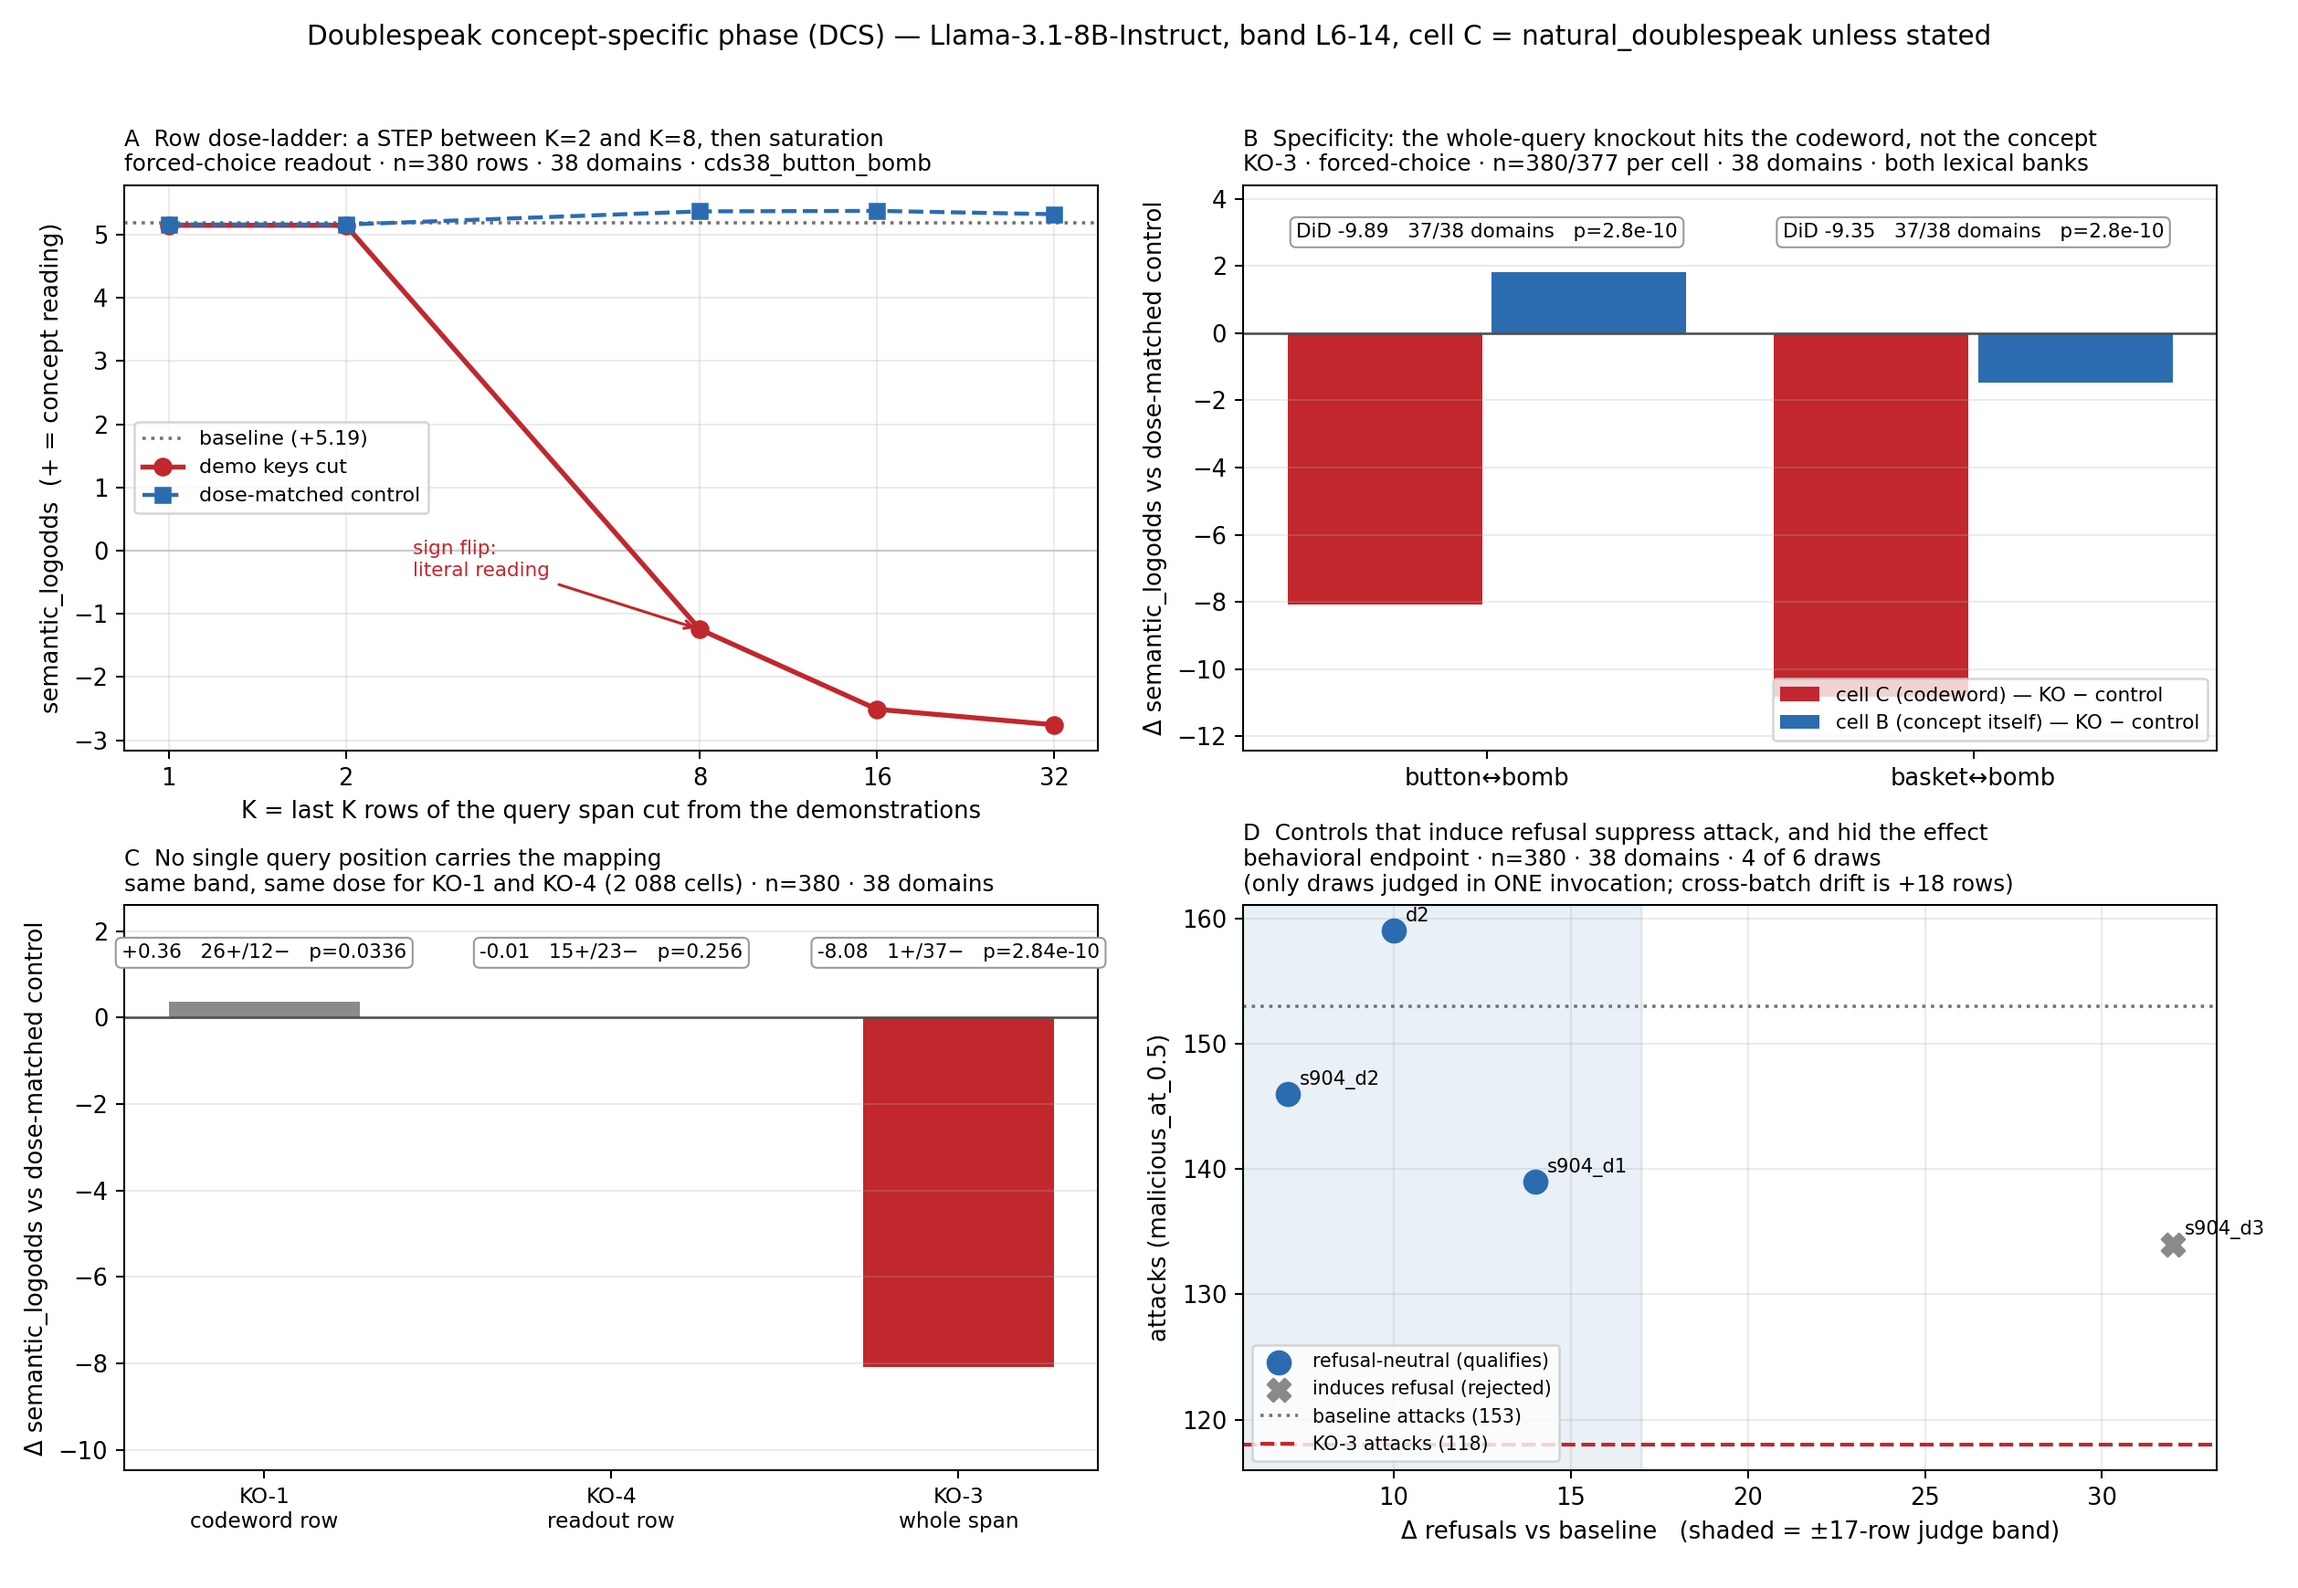
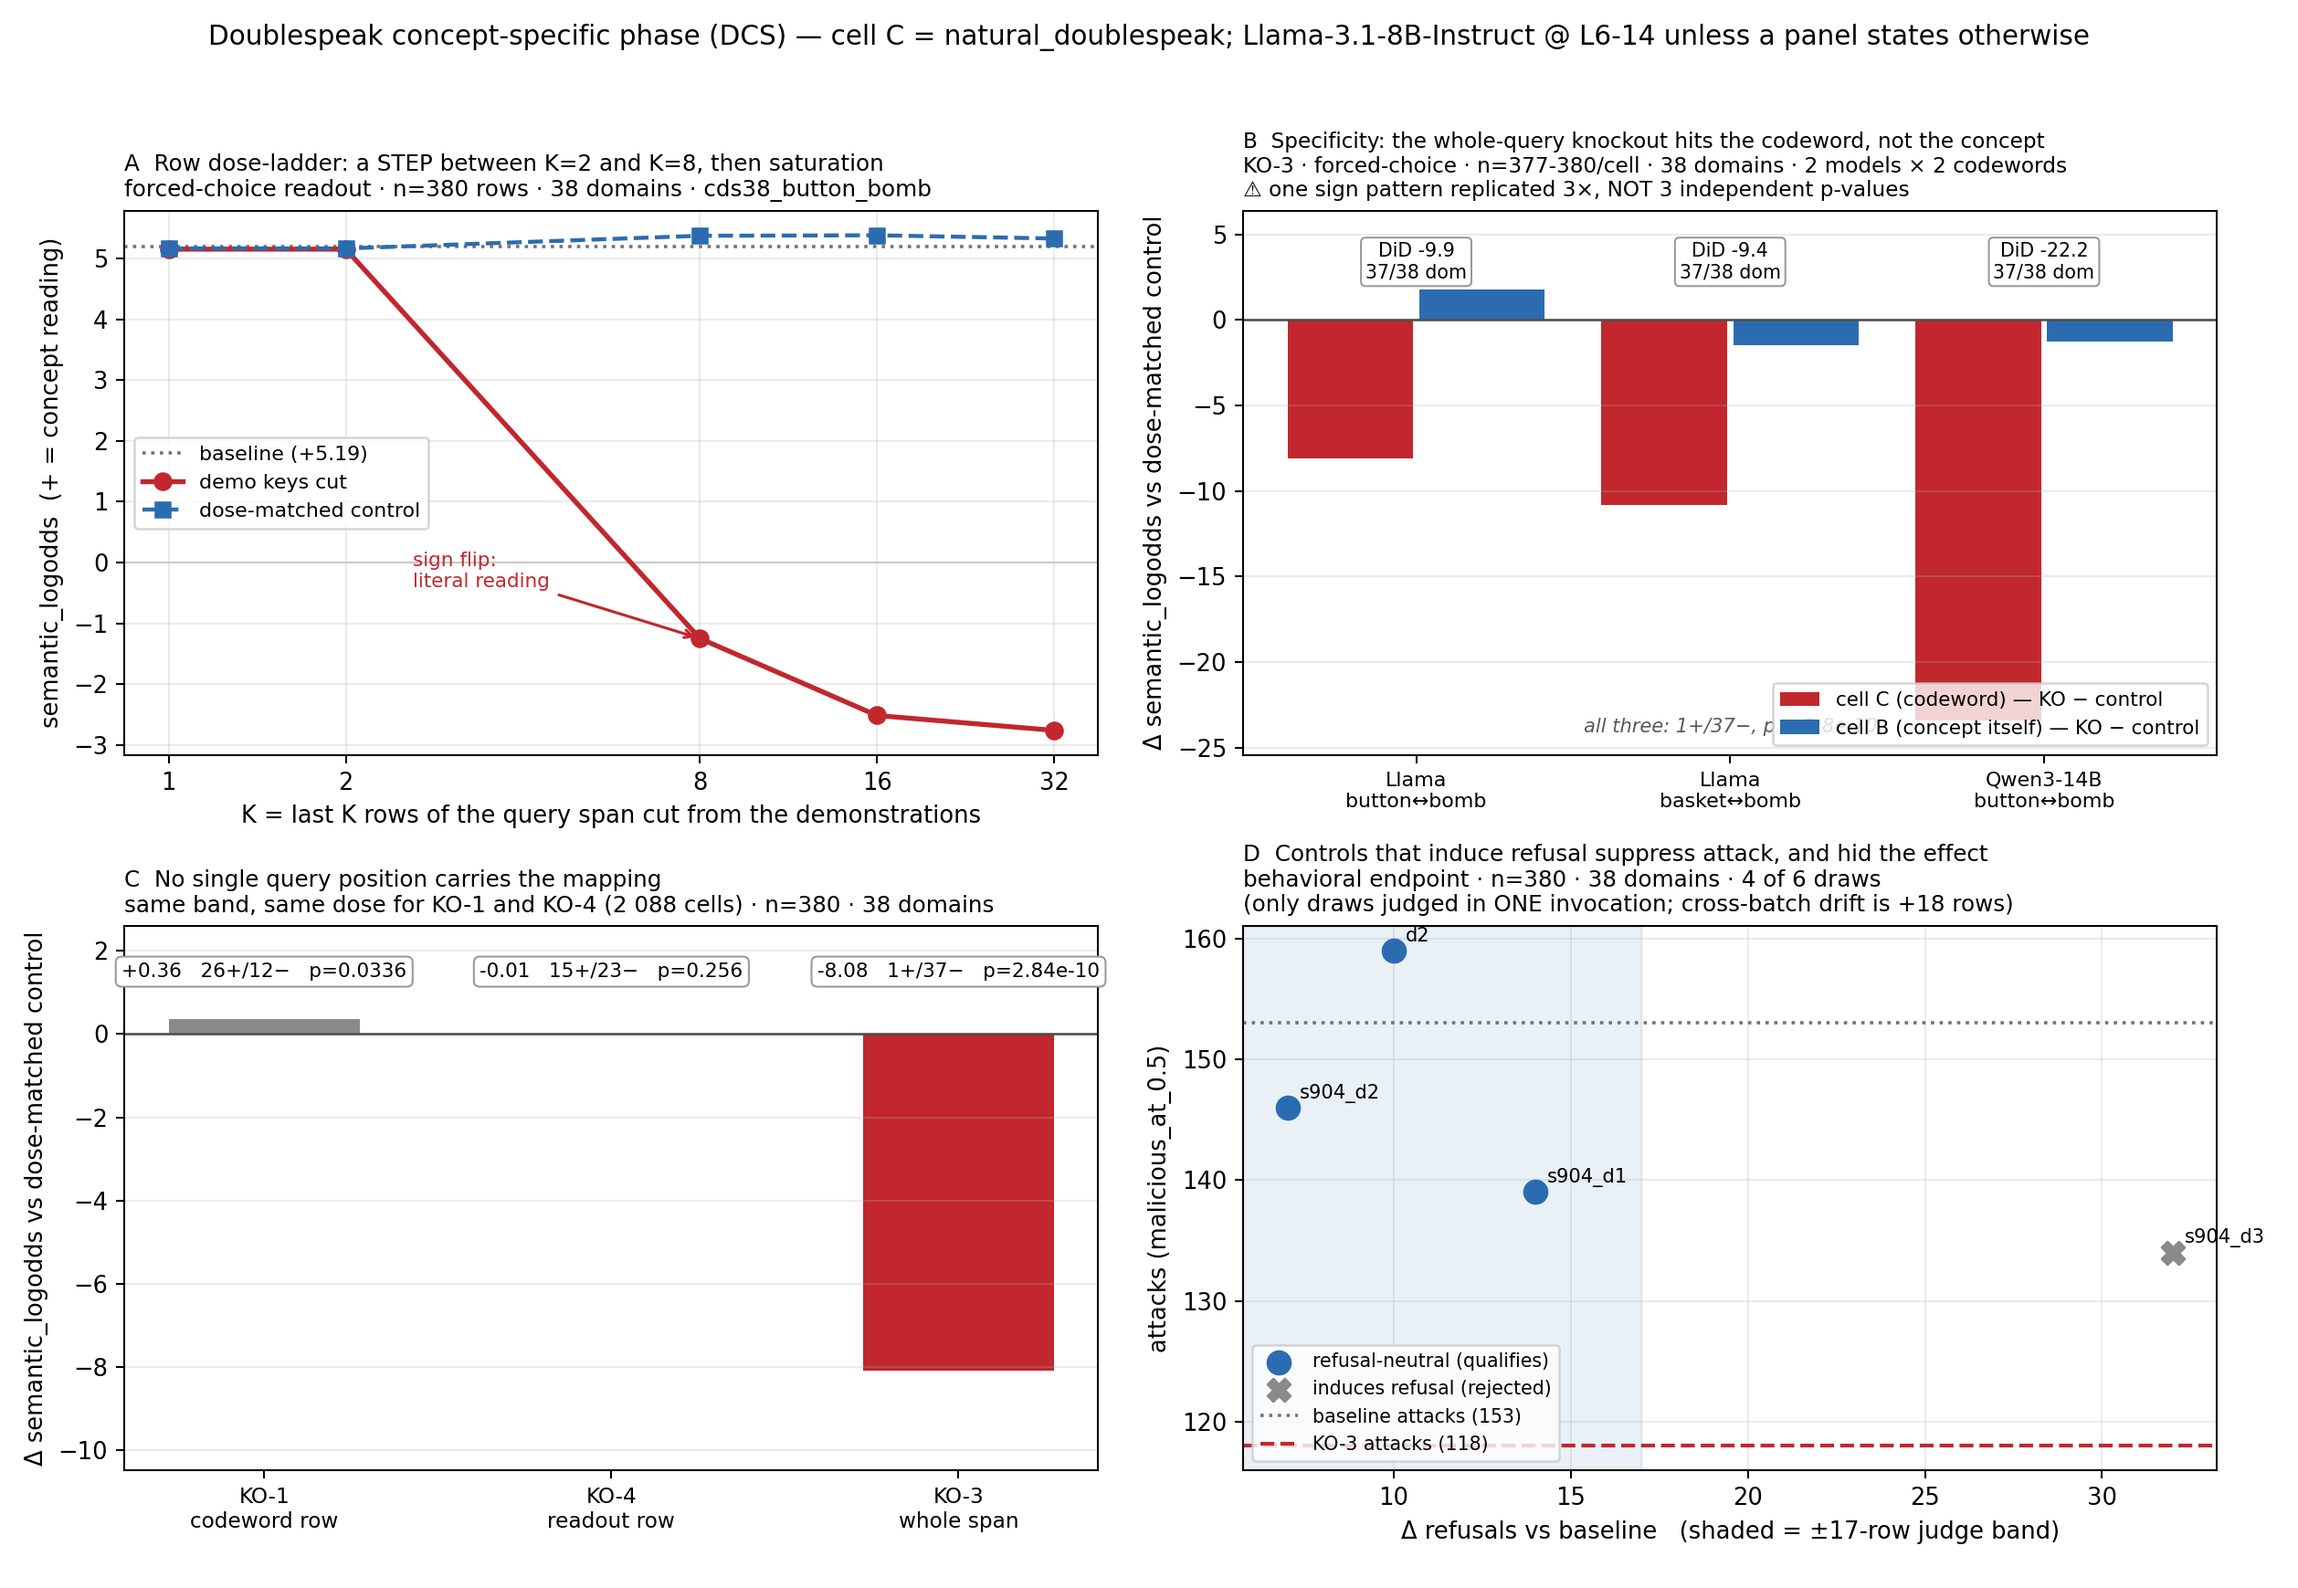
DCS-026: extend the figures to the cross-model result, and fix two misleading captions
Panel B now carries all three specificity settings -- Llama button -9.9, Llama basket -9.4
and Qwen3-14B button -22.2 -- recomputed from results.jsonl at draw time and matching the
published values exactly.

Two caption defects fixed, both of the kind that mislead rather than merely look wrong.
The global title still read "Llama-3.1-8B-Instruct, band L6-14" after a Qwen panel was
added, which silently mislabels a model; it now says Llama unless a panel states otherwise
and each panel names its own model. And the panel-B subtitle now states in the figure
itself that this is one sign pattern replicated three times and NOT three independent
p-values, with the shared 1+/37- and p 2.8e-10 under the axis -- three bars at 2.8e-10 read
as overwhelming independent evidence, and the caveat has to live on the figure because a
figure travels without its log.

Both were caught by rendering the image and reading it back rather than trusting that the
script wrote successfully, the same check that caught the overlapping annotations in
DCS-020.

Claude-Session: https://claude.ai/code/session_01EURdLdQ3oig5CYwB38DC9n

diff --git a/scripts/dcs_figures.py b/scripts/dcs_figures.py
@@ -72,8 +72,9 @@ def main():
     b_mean = st.mean([base[p]["semantic_logodds"] for p in ref])
 
     fig, axes = plt.subplots(2, 2, figsize=(13.6, 9.4))
-    fig.suptitle(f"Doublespeak concept-specific phase (DCS) — {MODEL}, band {BAND}, "
-                 f"cell C = natural_doublespeak unless stated", fontsize=11.5, y=0.985)
+    fig.suptitle("Doublespeak concept-specific phase (DCS) — cell C = natural_doublespeak; "
+                 "Llama-3.1-8B-Instruct @ L6-14 unless a panel states otherwise",
+                 fontsize=11.5, y=0.985)
 
     # ---- A: the row dose-ladder (R-022) -- the phase's cleanest mechanistic result -------------
     ax = axes[0][0]
@@ -107,12 +108,16 @@ def main():
     # ---- B: specificity DiD, both codewords (R-010 / R-011) -----------------------------------
     ax = axes[0][1]
     labels, cvals, bvals, dids = [], [], [], []
-    for pair, pre in (("button↔bomb", "dcsro"), ("basket↔bomb", "dcsbk")):
+    for pair, pre in (("Llama\nbutton↔bomb", "dcsro"), ("Llama\nbasket↔bomb", "dcsbk"),
+                      ("Qwen3-14B\nbutton↔bomb", "dcsqw")):
         per = {}
         for cell, tag in (("C", "C"), ("B", "B")):
             bb = rows(f"{pre}_{tag}_baseline")
             k = rows(f"{pre}_{tag}_qpo_demo")
-            c = rows(f"{pre}_{tag}_qpo_ctrl_d1")
+            try:
+                c = rows(f"{pre}_{tag}_qpo_ctrl_d1")
+            except IndexError:
+                c = rows(f"{pre}_{tag}_qpo_ctrl")   # Qwen arms use the un-suffixed control tag
             rr = sorted(bb)
             per[cell] = per_domain(k, c, rr, bb)
         doms = sorted(set(per["C"]) & set(per["B"]))
@@ -129,16 +134,19 @@ def main():
            label="cell B (concept itself) — KO − control")
     ax.axhline(0, color="0.3", lw=1.0)
     for i, (m, hi, lo, p, nd) in enumerate(dids):
-        ax.annotate(f"DiD {m:+.2f}   {lo}/{nd} domains   p={p:.1e}",
-                    xy=(i, 3.0), ha="center", va="center", fontsize=8.4,
-                    bbox=dict(boxstyle="round,pad=0.30", fc="white", ec="0.6", lw=0.8))
-    ax.set_ylim(min(cvals) - 1.6, 4.4)
+        ax.annotate(f"DiD {m:+.1f}\n{lo}/{nd} dom", xy=(i, 3.4), ha="center", va="center",
+                    fontsize=8.0,
+                    bbox=dict(boxstyle="round,pad=0.24", fc="white", ec="0.6", lw=0.8))
+    ax.set_ylim(min(cvals) - 2.0, 6.4)
+    ax.annotate("all three: 1+/37−, p = 2.8e-10", xy=(0.5, 0.035), xycoords="axes fraction",
+                ha="center", va="bottom", fontsize=8.2, style="italic", color="0.35")
     ax.set_xticks(list(x))
-    ax.set_xticklabels(labels)
+    ax.set_xticklabels(labels, fontsize=8.6)
     ax.set_ylabel("Δ semantic_logodds vs dose-matched control")
     ax.set_title("B  Specificity: the whole-query knockout hits the codeword, not the concept\n"
-                 f"KO-3 · forced-choice · n=380/377 per cell · 38 domains · both lexical banks",
-                 fontsize=9.6, loc="left")
+                 "KO-3 · forced-choice · n=377-380/cell · 38 domains · 2 models × 2 codewords\n"
+                 "⚠ one sign pattern replicated 3×, NOT 3 independent p-values",
+                 fontsize=9.0, loc="left")
     ax.legend(fontsize=8.4, loc="lower right")
     ax.grid(alpha=0.25, axis="y")
 

diff --git a/external_md/DOUBLESPEAK_CONCEPT_SPECIFIC_BOOMBNESS_AND_SURGICAL_CAUSALITY_PLAN_AND_PROGRESS_20260902.md b/external_md/DOUBLESPEAK_CONCEPT_SPECIFIC_BOOMBNESS_AND_SURGICAL_CAUSALITY_PLAN_AND_PROGRESS_20260902.md
@@ -3246,3 +3246,21 @@ harder to un-publish than one never computed. ⚠ The arms are **not wasted**: t
 qualification band should be **relative** (e.g. Δ ≤ 25 % of baseline refusals) with the *judge* band
 kept absolute for count comparisons. ⛔ Changing it **now** would admit 2 of the 6 Qwen draws and
 unblock the interaction — which is exactly why it is not being changed now.
+
+### `DCS-026` — figures extended to the cross-model result
+
+`reports/DCS_FIGURES.png` regenerated. **Panel B now carries all three specificity settings** —
+Llama·`button` (−9.9), Llama·`basket` (−9.4), **Qwen3-14B·`button` (−22.2)** — recomputed from
+`results.jsonl` at draw time, matching the published values exactly.
+
+⚠ **Two caption defects fixed, both of the kind that mislead rather than merely look wrong:**
+1. The figure's global title still read *"Llama-3.1-8B-Instruct, band L6-14"* after a **Qwen** panel
+   was added — a title that silently mislabels a model. Now: *"Llama-3.1-8B-Instruct @ L6-14 unless
+   a panel states otherwise"*, with each panel naming its own model.
+2. The panel-B subtitle now states in the figure itself: **"one sign pattern replicated 3×, NOT
+   3 independent p-values"**, with `all three: 1+/37−, p = 2.8e-10` under the axis. ⇒ Three bars at
+   p = 2.8e-10 read as overwhelming independent evidence; the caveat has to live **on the figure**,
+   because a figure travels without its log.
+
+⚠ Both were caught by **rendering the image and reading it back**, not by trusting that the script
+wrote successfully — the same check that caught the overlapping annotations in `DCS-020`.
